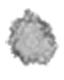
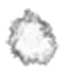
更新球和爆炸效果图片

Changed region(s): [[0.1562, 0.2, 0.875, 0.8]]

diff --git a/SmallStone_iOS/SmallStone/Level/Level1.m b/SmallStone_iOS/SmallStone/Level/Level1.m
@@ -31,7 +31,7 @@
         //创建小球
         _ball = [[BaseBall alloc] initWithFrame: CGRectMake(0.0f, 0.0f, _ballSize, _ballSize)];
         _ball.center = ConvertPtBottomLeftToTopLeft(CGPointMake(-_ballSize/2, -_ballSize/2));
-        _ball.image = [UIImage imageNamed: @"ball.png"];
+        _ball.image = [UIImage imageNamed: @"ball"];
         _ball.animationImages = [NSArray arrayWithObjects:
                                  [UIImage imageNamed: @"Bomb0"],
                                  [UIImage imageNamed: @"Bomb1"],

diff --git a/SmallStone_iOS/SmallStone/Ball/BaseBall.m b/SmallStone_iOS/SmallStone/Ball/BaseBall.m
@@ -18,6 +18,7 @@
     if (self) {
         // Initialization code
         self.userInteractionEnabled = YES;
+        self.contentMode = UIViewContentModeCenter;
         
     }
     return self;
